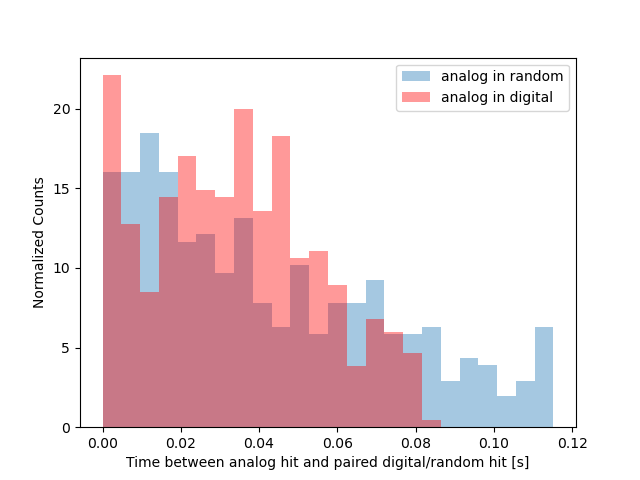
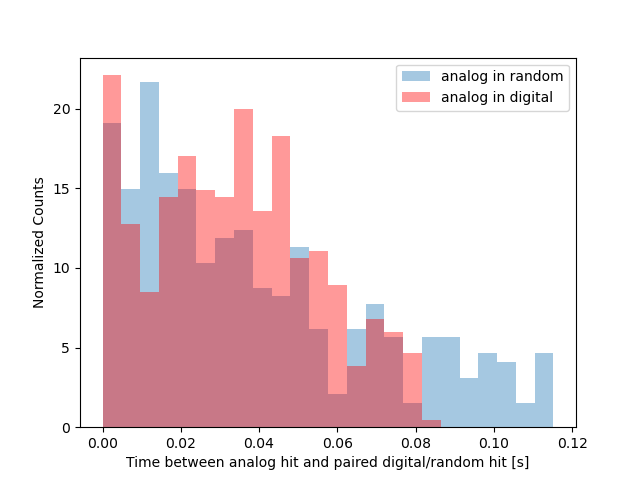
fix bug in normalization of random matching line on plot

diff --git a/analysisScripts/digiAna_compareHitTiming.py b/analysisScripts/digiAna_compareHitTiming.py
@@ -104,7 +104,7 @@ def optimize_window(moreHits, lessHits, moreStr, lessStr, showPlot):
 
 	plt.clf()
 	measPerc=[i/len(lessHits)*100. for i in measProp]
-	randPerc=[i/len(randHits)*100. for i in randProp]
+	randPerc=[i/len(lessHits)*100. for i in randProp]
 	plt.scatter(wind,measPerc,label="meas", s=75)
 	plt.scatter(wind,randPerc,label="rand", alpha=0.7)
 	plt.legend(loc="best")
@@ -228,16 +228,16 @@ if __name__ == "__main__":
 	#anaIn = "../../astropixOut_tmp/v2/070722_amp1/chip602_100mV_digitalPaired_cobalt57_180min.h5py"
 	
 	#2min 0.3V injection, 100ms latency, optimized DACs for short pulse, pixel 00, -60V bias
-	#digiIn = "../logInj/dacScan/pixelr0c0/optimized/vprec_60_vnfoll2_4_vnfb_3_20220823-114012.csv"
-	#anaIn = "../logInj/dacScan/pixelr0c0/optimized/short_chip602_vprec60_vnfoll24_vnfb3_0.3Vinj_2min.h5py"
-	#nm = "optimizedDACs_0.3Vinj"
+	digiIn = "../logInj/dacScan/pixelr0c0/optimized/vprec_60_vnfoll2_4_vnfb_3_20220823-114012.csv"
+	anaIn = "../logInj/dacScan/pixelr0c0/optimized/short_chip602_vprec60_vnfoll24_vnfb3_0.3Vinj_2min.h5py"
+	nm = "optimizedDACs_0.3Vinj"
 	
 	#2min 0.3V injection, 100ms latency, default DACs, pixel 00, -60V bias, vprec60
 	#digital latency ~ 100ms
 	#analog latency ~ 200-500ms (2021 11 30)
-	digiIn = "../logInj/dacScan/pixelr0c0/vprec_test/vprec_60_vnfoll2_1_vnfb_1_20220823-113731.csv"
-	anaIn = "../logInj/dacScan/pixelr0c0/vprec_test/short_chip602_vprec60_vnfoll21_vnfb1_0.3Vinj_2min.h5py"
-	nm = "defaultDACs_0.3Vinj"
+	#digiIn = "../logInj/dacScan/pixelr0c0/vprec_test/vprec_60_vnfoll2_1_vnfb_1_20220823-113731.csv"
+	#anaIn = "../logInj/dacScan/pixelr0c0/vprec_test/short_chip602_vprec60_vnfoll21_vnfb1_0.3Vinj_2min.h5py"
+	#nm = "defaultDACs_0.3Vinj"
 
 	saveDir = "plotsOut/hitTiming/"
 	
